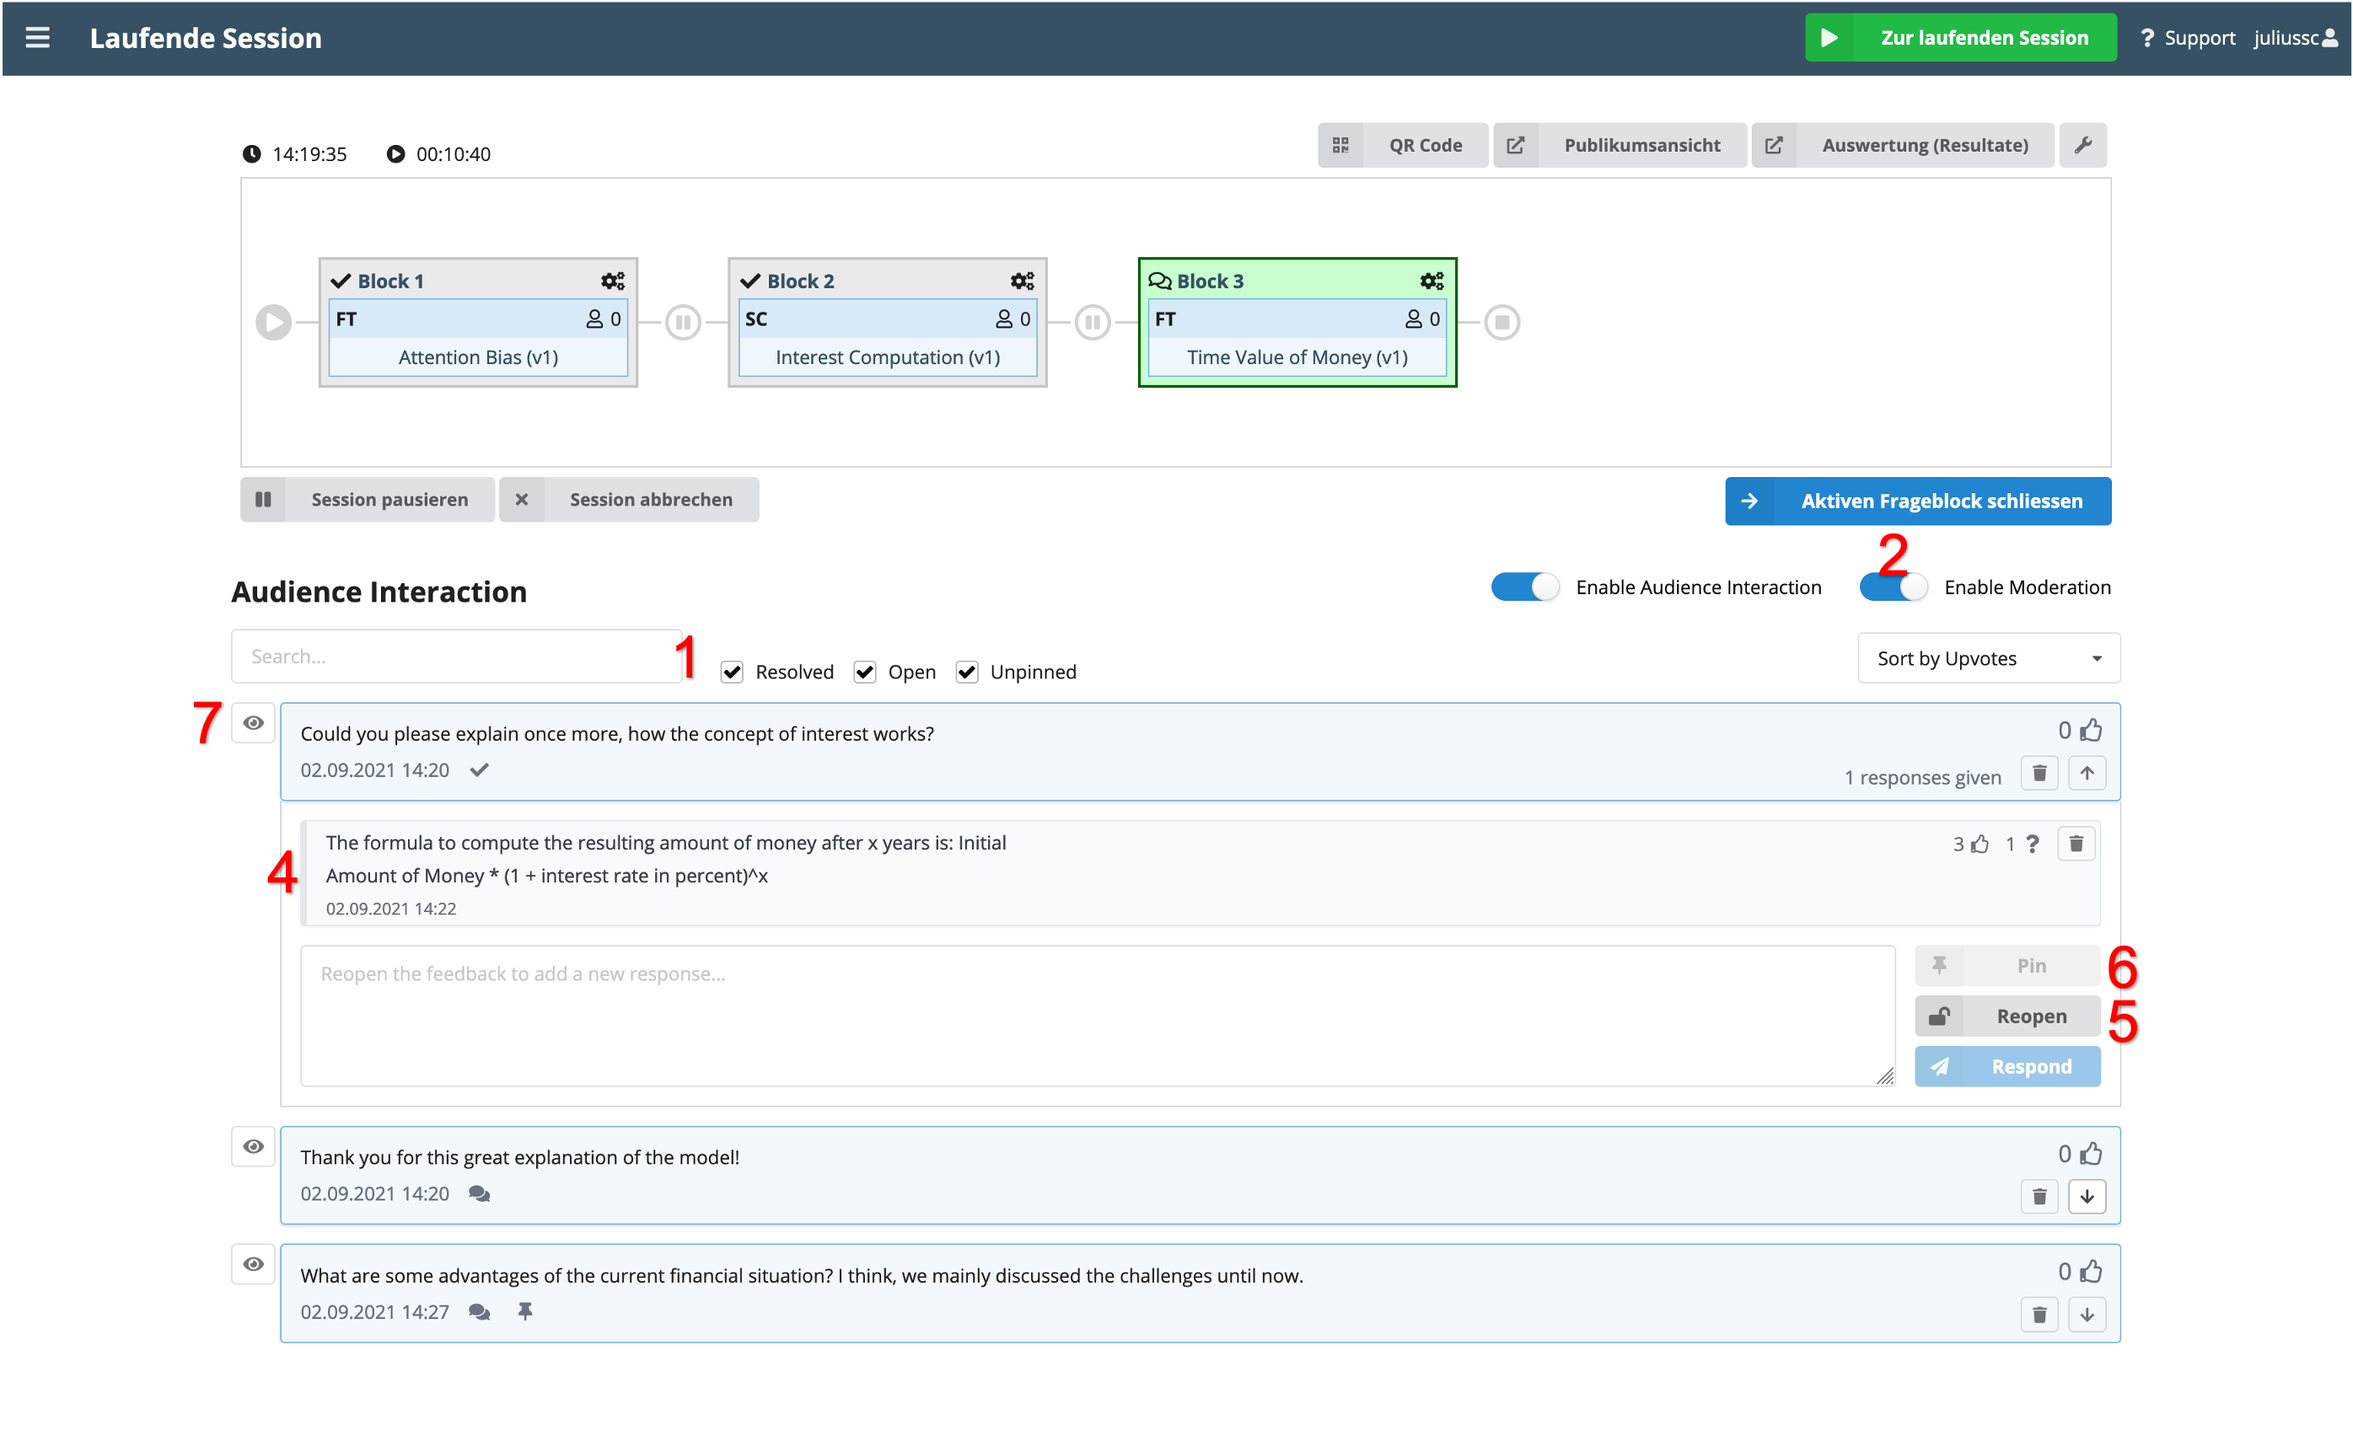
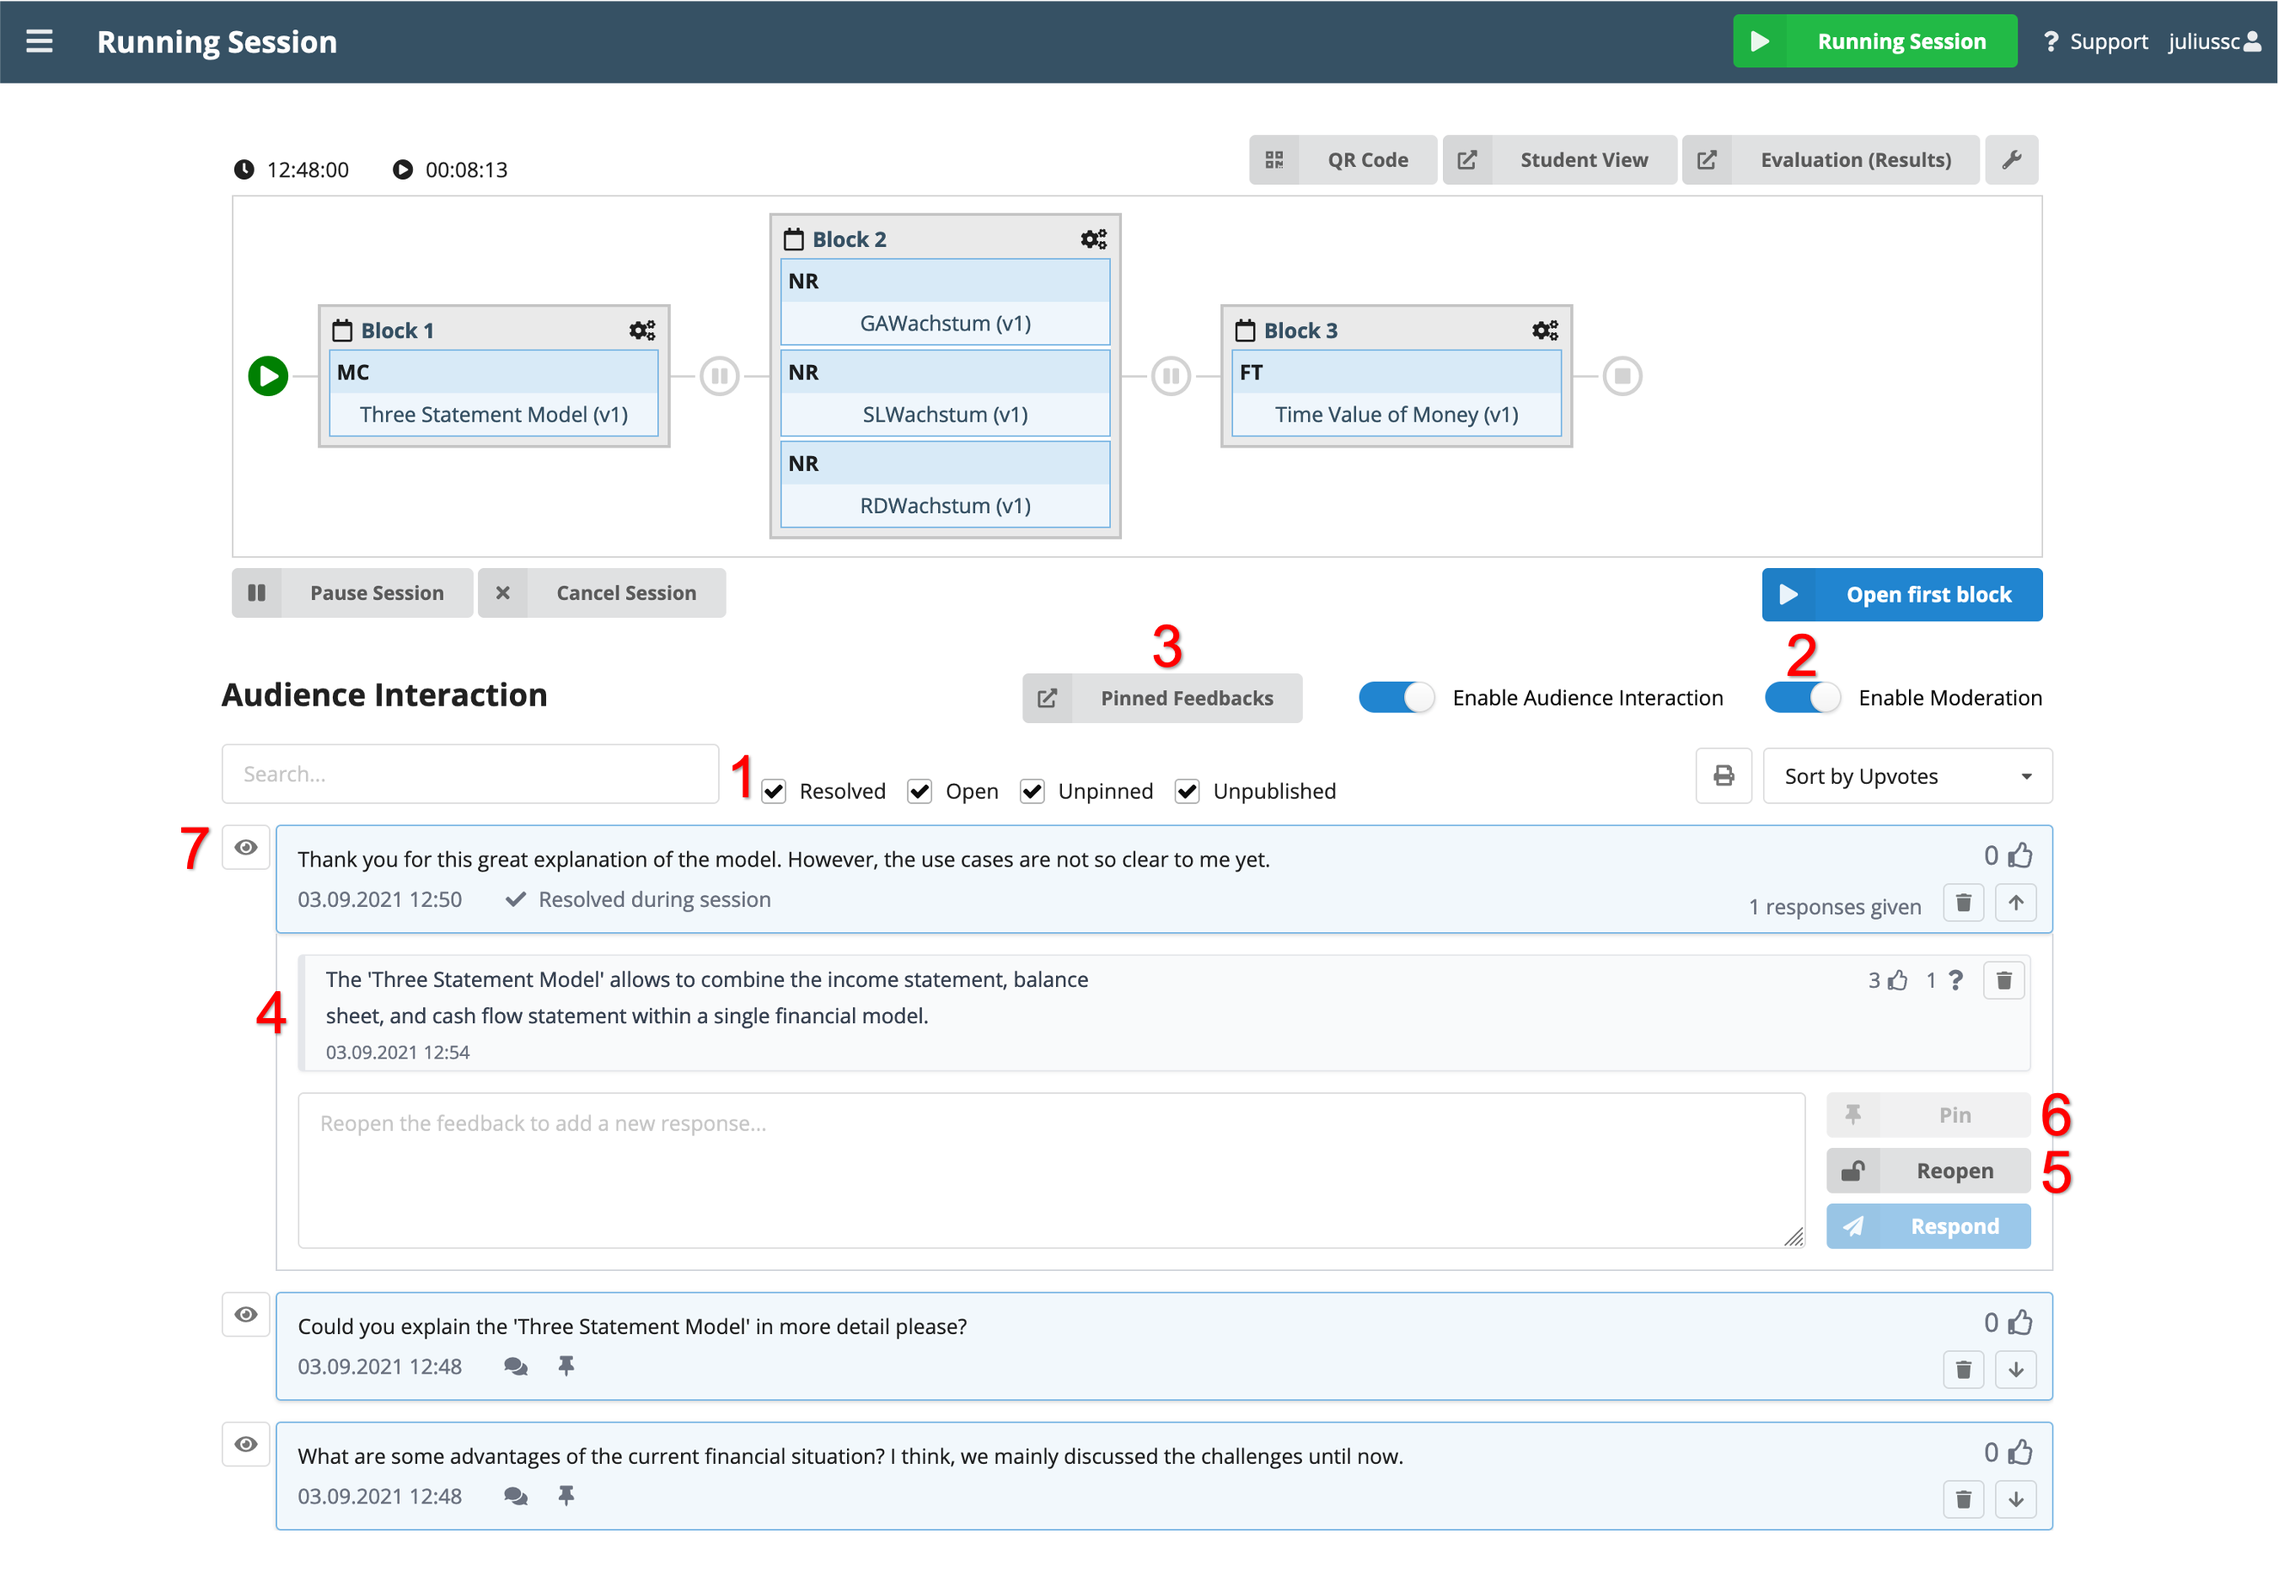
docs: update of audience interaction docs

diff --git a/docs/docs/basics/audience_interaction.md b/docs/docs/basics/audience_interaction.md
@@ -14,15 +14,16 @@ Depending on the lecturers settings, the questions / feedback will become visibl
 ![Lecturer View Interaction](assets/lecturer_view_interaction.png)
 
 On the lecturers screen, there are many additional settings. Whenever the audience interaction itself is enabled, all provided questions / feedback will be listed. The following settings can be made:
+
 1. **Filtering:** In order to organize incoming statements from students, it is possible to search them by terms or select only the ones that are 'resolved', 'open' or 'unpinned'.
 2. **Moderation:** This switch allows to enable moderator functions as the visibility choice for student statements (described below). Even though it is not a condition to use the feedback screen, it is a very useful tool, if the teacher is supported by assistants in large lectures. In this case, the assistants can manage the incoming questions, pin them for the professor and possibly even answer a selection of those directly.
-3. **Feedback-Screen:** In the described case, whenever a lecturer is supported by an assistant, it might be beneficial to reduce the workload on the teacher by only forwarding selected student inputs to him. The Feedback Screen (further down), which can be reached via this button, provides the lecturer only with the questions that have been pinned by some moderator. However, it is important to notice that moderator and lecturer both have to be logged in with the same account in order to access these teacher-related resources.
-In principle, this view is also available without enabled 'moderation' and can be used by the teacher to organize questions or show a selection of questions to the audience via streaming (e.g. also during hybrid lectures).
+3. **Pinned Feedbacks:** In the described case, whenever a lecturer is supported by an assistant, it might be beneficial to reduce the workload on the teacher by only forwarding selected student inputs to him. The Feedback Screen (shown at the bottom of this page), which can be reached via the highlighted button, provides the lecturer only with the questions that have been pinned by some moderator. However, it is important to notice that moderator and lecturer both have to be logged in with the same account in order to access these teacher-related functionalities. In principle, this view is also available without enabled 'moderation' and can be used by the teacher himself to organize questions or show a selection of inputs to the audience via projection or streaming (e.g. also during hybrid lectures).
 
 The lecturer / moderator can organize all incoming questions / feedback:
+
 4. **Answer a question:** Questions that were handed in through this tool can be directly answered. The answer (with its corresponding question) will then automatically be visible to all students under the section 'Resolved' independent from previous visibility settings.
 5. **Resolve / Reopen a question:** Questions can also be marked as solved manually (without answering them). While this only causes a reorganization on the students screens, this is a useful tool if the question has been answered orally by the lecturer. Vice-versa, questions can also be reopened and pushed to the section 'Open'.
-6. **Pin a question:** An especially useful function for large lectures with many students is the already mentioned possiblity to pin questions. This tool can be used by an assistant to the professor, who pins important questions (e.g. with many upvotes) and therefore automatically pushes them to the teachers feedback screen shown below. 
+6. **Pin a question:** An especially useful feature for large lectures with many students is the already mentioned possiblity to pin questions. This tool can be used by an assistant to the professor, who pins important questions (e.g. with many upvotes) and thereby automatically pushes them to the teachers mentioned feedback screen shown below.
 7. **Visibility:** If moderation is enabled, the lecturer / moderator will have the possiblity to hide / show certain feedback and questions. By default, every incoming statement will be invisible to other students and can only be seen by the lecturer. By answering the question or toggling its visibility, this can be easily changed. Attention: the visibility feature is not coupled with pinning and works independently. I.e. it is possible to pin a question for the presenter, which is not visible to all students.
 
 Finally, the picture below shows the feedback site, which can be used if only the pinned questions together with their upvotes shall be shown on a screen (e.g. to the lecturer):
